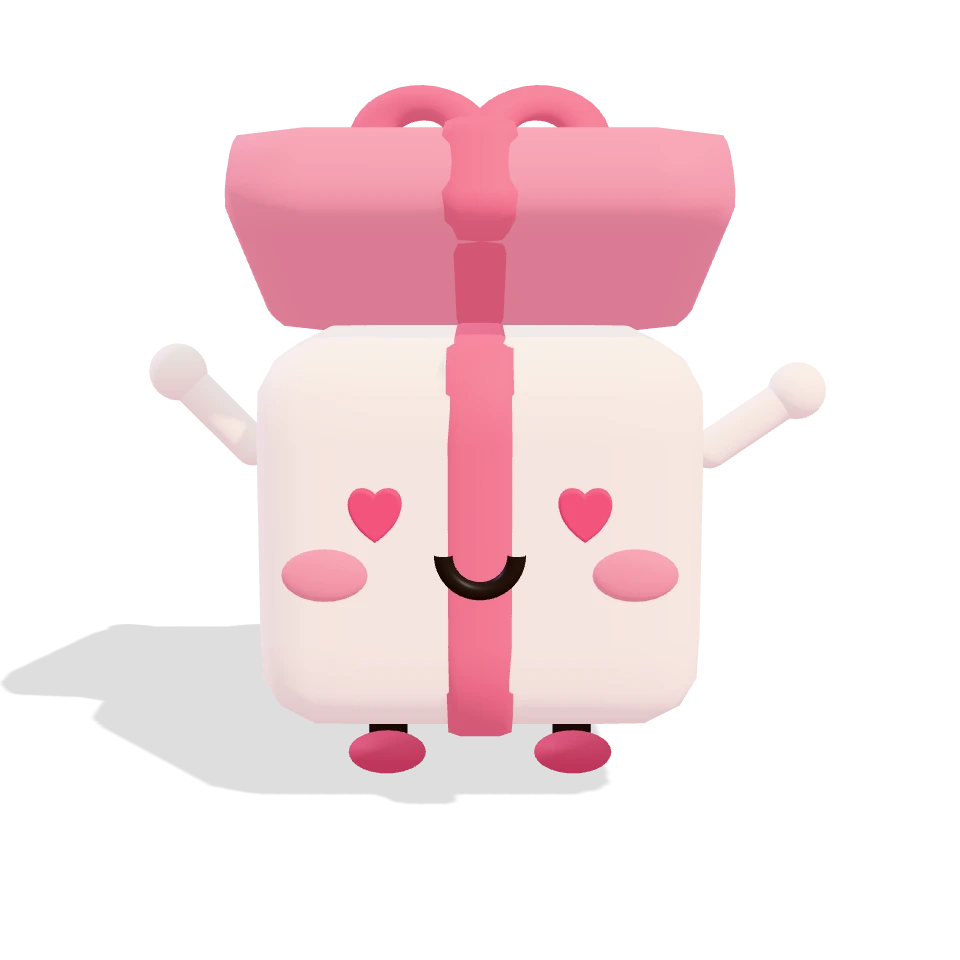
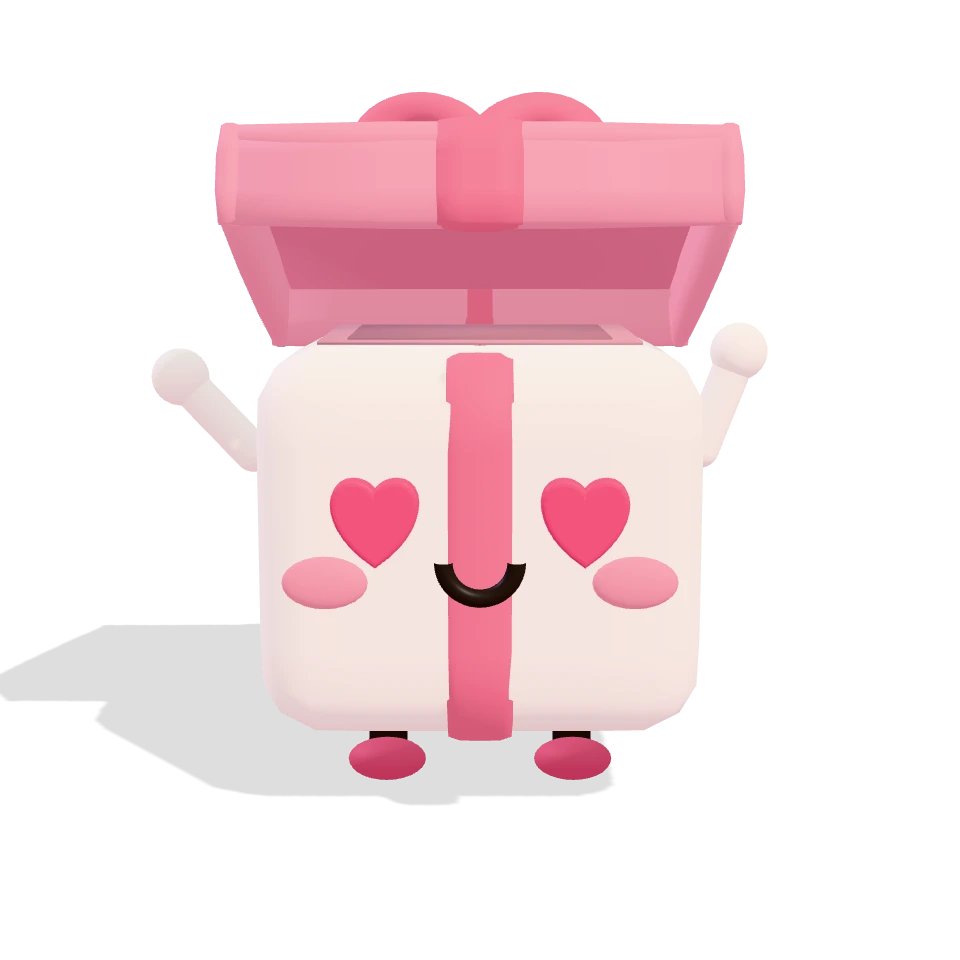
Bo: a real hollow lid and an opening in the box
The lid is now a cap (thin top, walls, darker inside) instead of a solid
block, the box has an opening on top, notes drop into it, and the lid opens
wider while they go in. Stills re-rendered to match.

diff --git a/src/lib/bo3d/scene.ts b/src/lib/bo3d/scene.ts
@@ -381,7 +381,10 @@ function buildCodeRig(lidColor: THREE.Color): Rig {
   const body = new THREE.Group();
   root.add(body);
   addMesh(body, roundedBox(1.6, 1.4, 1.4, 0.24, 8), bodyMat, 0, 1.0, 0);
-  addMesh(body, roundedBox(0.3, 1.42, 1.44, 0.09, 4), ribbonMat, 0, 1.0, 0);
+  addMesh(body, roundedBox(0.3, 1.4, 1.44, 0.09, 4), ribbonMat, 0, 1.0, 0);
+  // The opening on top of the box, seen when the lid lifts.
+  addMesh(body, roundedBox(1.16, 0.02, 0.98, 0.01, 1), clay(0xc9939f, 0.9), 0, 1.716, 0, false);
+  addMesh(body, roundedBox(0.96, 0.02, 0.78, 0.01, 1), clay(0xa97582, 0.95), 0, 1.722, 0, false);
 
   const face = new THREE.Group();
   face.position.set(0, 0, 0.72);
@@ -414,8 +417,13 @@ function buildCodeRig(lidColor: THREE.Color): Rig {
   const lid = new THREE.Group();
   lid.position.set(0, 0.12, 0.78);
   lidPivot.add(lid);
-  addMesh(lid, roundedBox(1.8, 0.38, 1.6, 0.16, 6), lidMat, 0, 0, 0);
-  addMesh(lid, roundedBox(0.32, 0.4, 1.62, 0.1, 4), ribbonMat, 0, 0, 0);
+  // A real lid: a thin top with walls around it, hollow underneath, so it reads as a cap when it opens.
+  addMesh(lid, roundedBox(1.8, 0.12, 1.6, 0.06, 4), lidMat, 0, 0.13, 0);
+  for (const z of [-0.75, 0.75]) addMesh(lid, roundedBox(1.8, 0.38, 0.1, 0.05, 3), lidMat, 0, 0, z);
+  for (const x of [-0.85, 0.85]) addMesh(lid, roundedBox(0.1, 0.38, 1.6, 0.05, 3), lidMat, x, 0, 0);
+  addMesh(lid, roundedBox(1.62, 0.02, 1.42, 0.01, 1), clay(0xe58aa2, 0.8), 0, 0.064, 0, false);
+  addMesh(lid, roundedBox(0.32, 0.14, 1.62, 0.06, 3), ribbonMat, 0, 0.13, 0);
+  for (const z of [-0.76, 0.76]) addMesh(lid, roundedBox(0.32, 0.4, 0.12, 0.05, 3), ribbonMat, 0, 0, z);
   const bow = new THREE.Group();
   bow.position.set(0, 0.32, 0);
   lid.add(bow);
@@ -776,7 +784,8 @@ export function createBoScene(canvas: HTMLCanvasElement, options: BoSceneOptions
   const butter = new THREE.Color(0xffd27a);
   const tmp = new THREE.Color();
   const v3 = new THREE.Vector3();
-  const mouth = new THREE.Vector3(0, 1.75, 0.1);
+  // Where notes go in and come out: the opening on top of the box.
+  const mouth = new THREE.Vector3(0, 1.62, 0.05);
 
   const pose: BoPose = { squash: 1, tuck: 0, flail: 0, run: 0, flip: 0, lean: 0, turn: null, hold: 0, lid: 0, cheer: 0, point: 0, bowSpin: 0, look: null };
   let bowKick = -10;
@@ -892,7 +901,7 @@ export function createBoScene(canvas: HTMLCanvasElement, options: BoSceneOptions
     const openOut = ease((P - 3.05) / 0.35);
     const notesOut = ease((P - 3.15) / 0.6);
 
-    r.lid.rotation.x = -Math.max(openIn * 0.95, openOut * 1.95, pose.lid);
+    r.lid.rotation.x = -Math.max(openIn * 1.25, openOut * 1.95, pose.lid);
     r.lid.position.y = r.lidRestY + (openOut * 0.25 + Math.sin(t * 3) * 0.03 * openOut) * u;
 
     // The bow puffs during the spin and flops after a landing.
